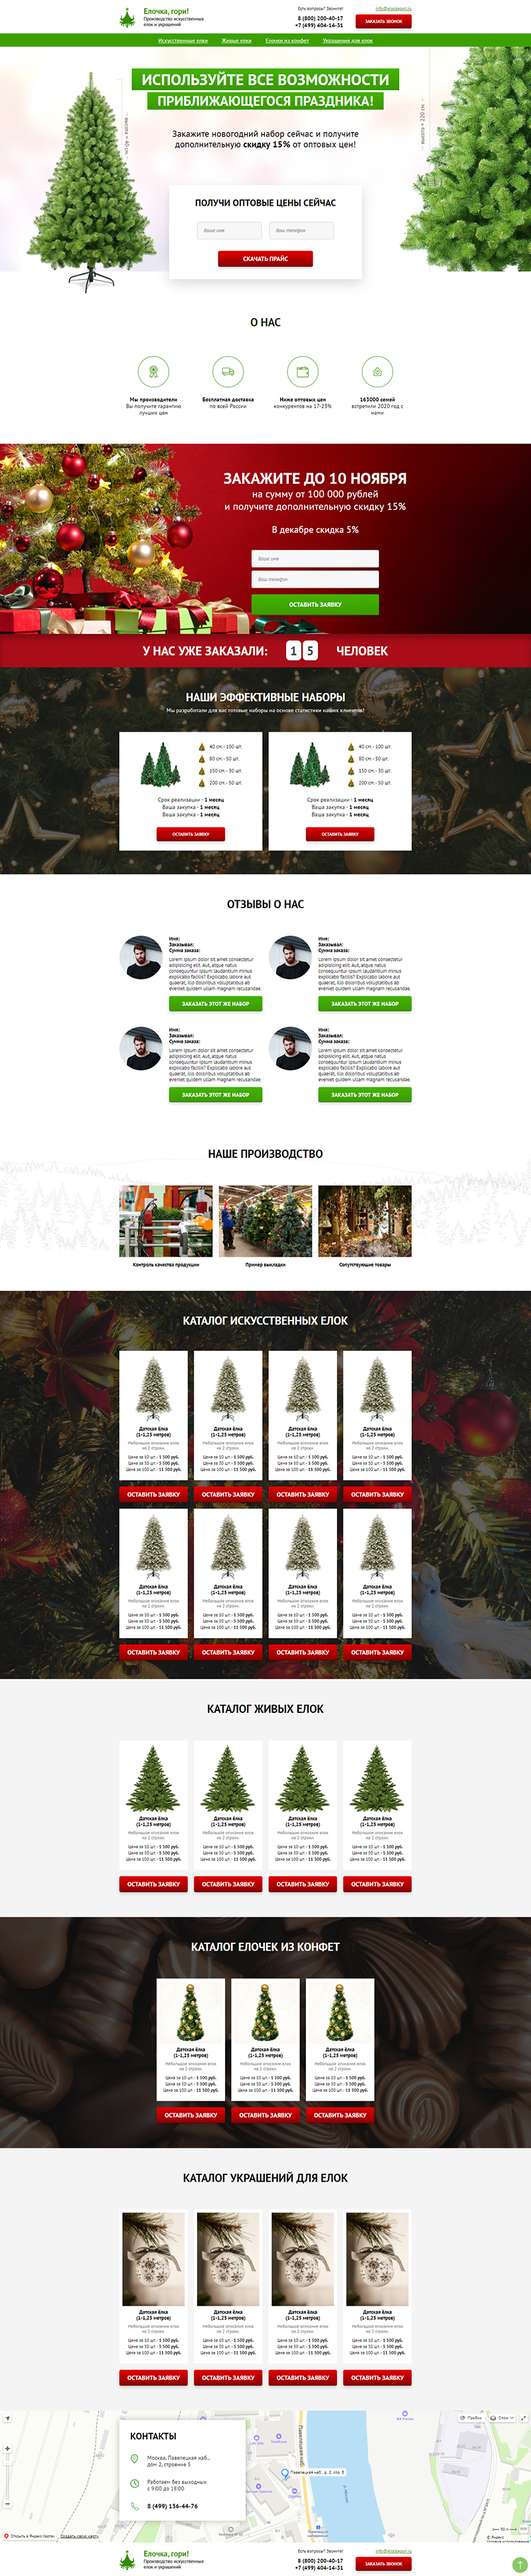
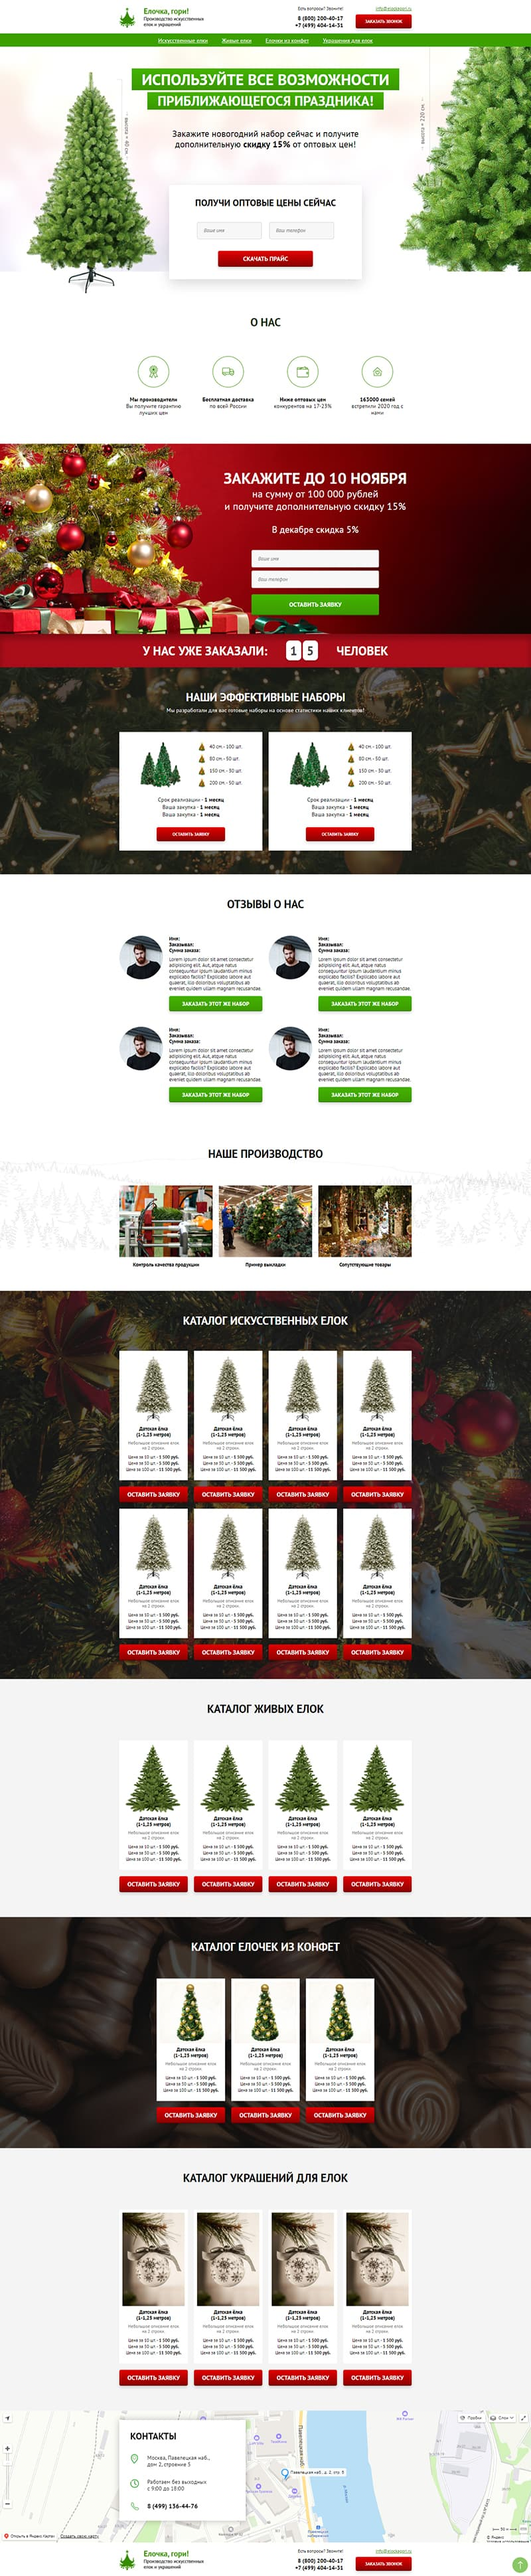
Сжала изображения, поправила ошибку в js

diff --git a/js/script.js b/js/script.js
@@ -1,3 +1,5 @@
+$(document).ready(function(){
+
 // кнопка возврата к началу страницы
 $(".top-btn").removeClass("top-btn--visible");
 
@@ -23,41 +25,6 @@ $(document).on('click', '.header__menu-link', function () {
     }, 'slow');
 });
 
-// переключатель темы
-let page = document.querySelector('.page');
-let headerLogo = document.querySelector('.header__logo');
-let services = document.querySelector('.services');
-let servImgs = document.querySelectorAll('.services__img')
-let technologies = document.querySelector('.technologies');
-let themeButton = document.querySelector('.header__theme');
-let themeImg = document.querySelector('.header__theme');
-let techItems = document.querySelectorAll('.item__img--switch');
-let modal = document.querySelectorAll('.modal');
-themeButton.onclick = function (event) {
-    event.preventDefault();
-    page.classList.toggle('page--dark');
-    page.classList.toggle('page--light');
-    headerLogo.classList.toggle('header__logo--dark');
-    headerLogo.classList.toggle('header__logo--light');
-    services.classList.toggle('services--dark');
-    services.classList.toggle('services--light');
-    technologies.classList.toggle('technologies--dark');
-    technologies.classList.toggle('technologies--light');
-    for (let techItem of techItems) {
-        techItem.classList.toggle('item__img--dark');
-        techItem.classList.toggle('item__img--light');
-    };
-    for (let servImg of servImgs) {
-        servImg.classList.toggle('services__img--dark');
-        servImg.classList.toggle('services__img--light');
-    };
-    themeImg.classList.toggle('header__theme--dark');
-    themeImg.classList.toggle('header__theme--light');
-    modal.forEach(function (item) {
-        item.classList.toggle('modal--dark')
-        item.classList.toggle('modal--light');
-    });
-};
 
 
 // открытие-закрытие модального окна
@@ -112,6 +79,8 @@ $(window).on('load resize', function() {
   }
 });
 
+
+
 // мобильное меню
   $(".header__nav-toggle").on("click", function () {
     $("body").toggleClass("page--disabled");
@@ -123,5 +92,40 @@ $(window).on('load resize', function() {
       $("body").removeClass("page--disabled");
     });
   });
-
+});
+// переключатель темы
+let page = document.querySelector('.page');
+let headerLogo = document.querySelector('.header__logo');
+let services = document.querySelector('.services');
+let servImgs = document.querySelectorAll('.services__img')
+let technologies = document.querySelector('.technologies');
+let themeButton = document.querySelector('.header__theme');
+let themeImg = document.querySelector('.header__theme');
+let techItems = document.querySelectorAll('.item__img--switch');
+let modal = document.querySelectorAll('.modal');
+themeButton.onclick = function (event) {
+    event.preventDefault();
+    page.classList.toggle('page--dark');
+    page.classList.toggle('page--light');
+    headerLogo.classList.toggle('header__logo--dark');
+    headerLogo.classList.toggle('header__logo--light');
+    services.classList.toggle('services--dark');
+    services.classList.toggle('services--light');
+    technologies.classList.toggle('technologies--dark');
+    technologies.classList.toggle('technologies--light');
+    for (let techItem of techItems) {
+        techItem.classList.toggle('item__img--dark');
+        techItem.classList.toggle('item__img--light');
+    };
+    for (let servImg of servImgs) {
+        servImg.classList.toggle('services__img--dark');
+        servImg.classList.toggle('services__img--light');
+    };
+    themeImg.classList.toggle('header__theme--dark');
+    themeImg.classList.toggle('header__theme--light');
+    modal.forEach(function (item) {
+        item.classList.toggle('modal--dark')
+        item.classList.toggle('modal--light');
+    });
+};
     
